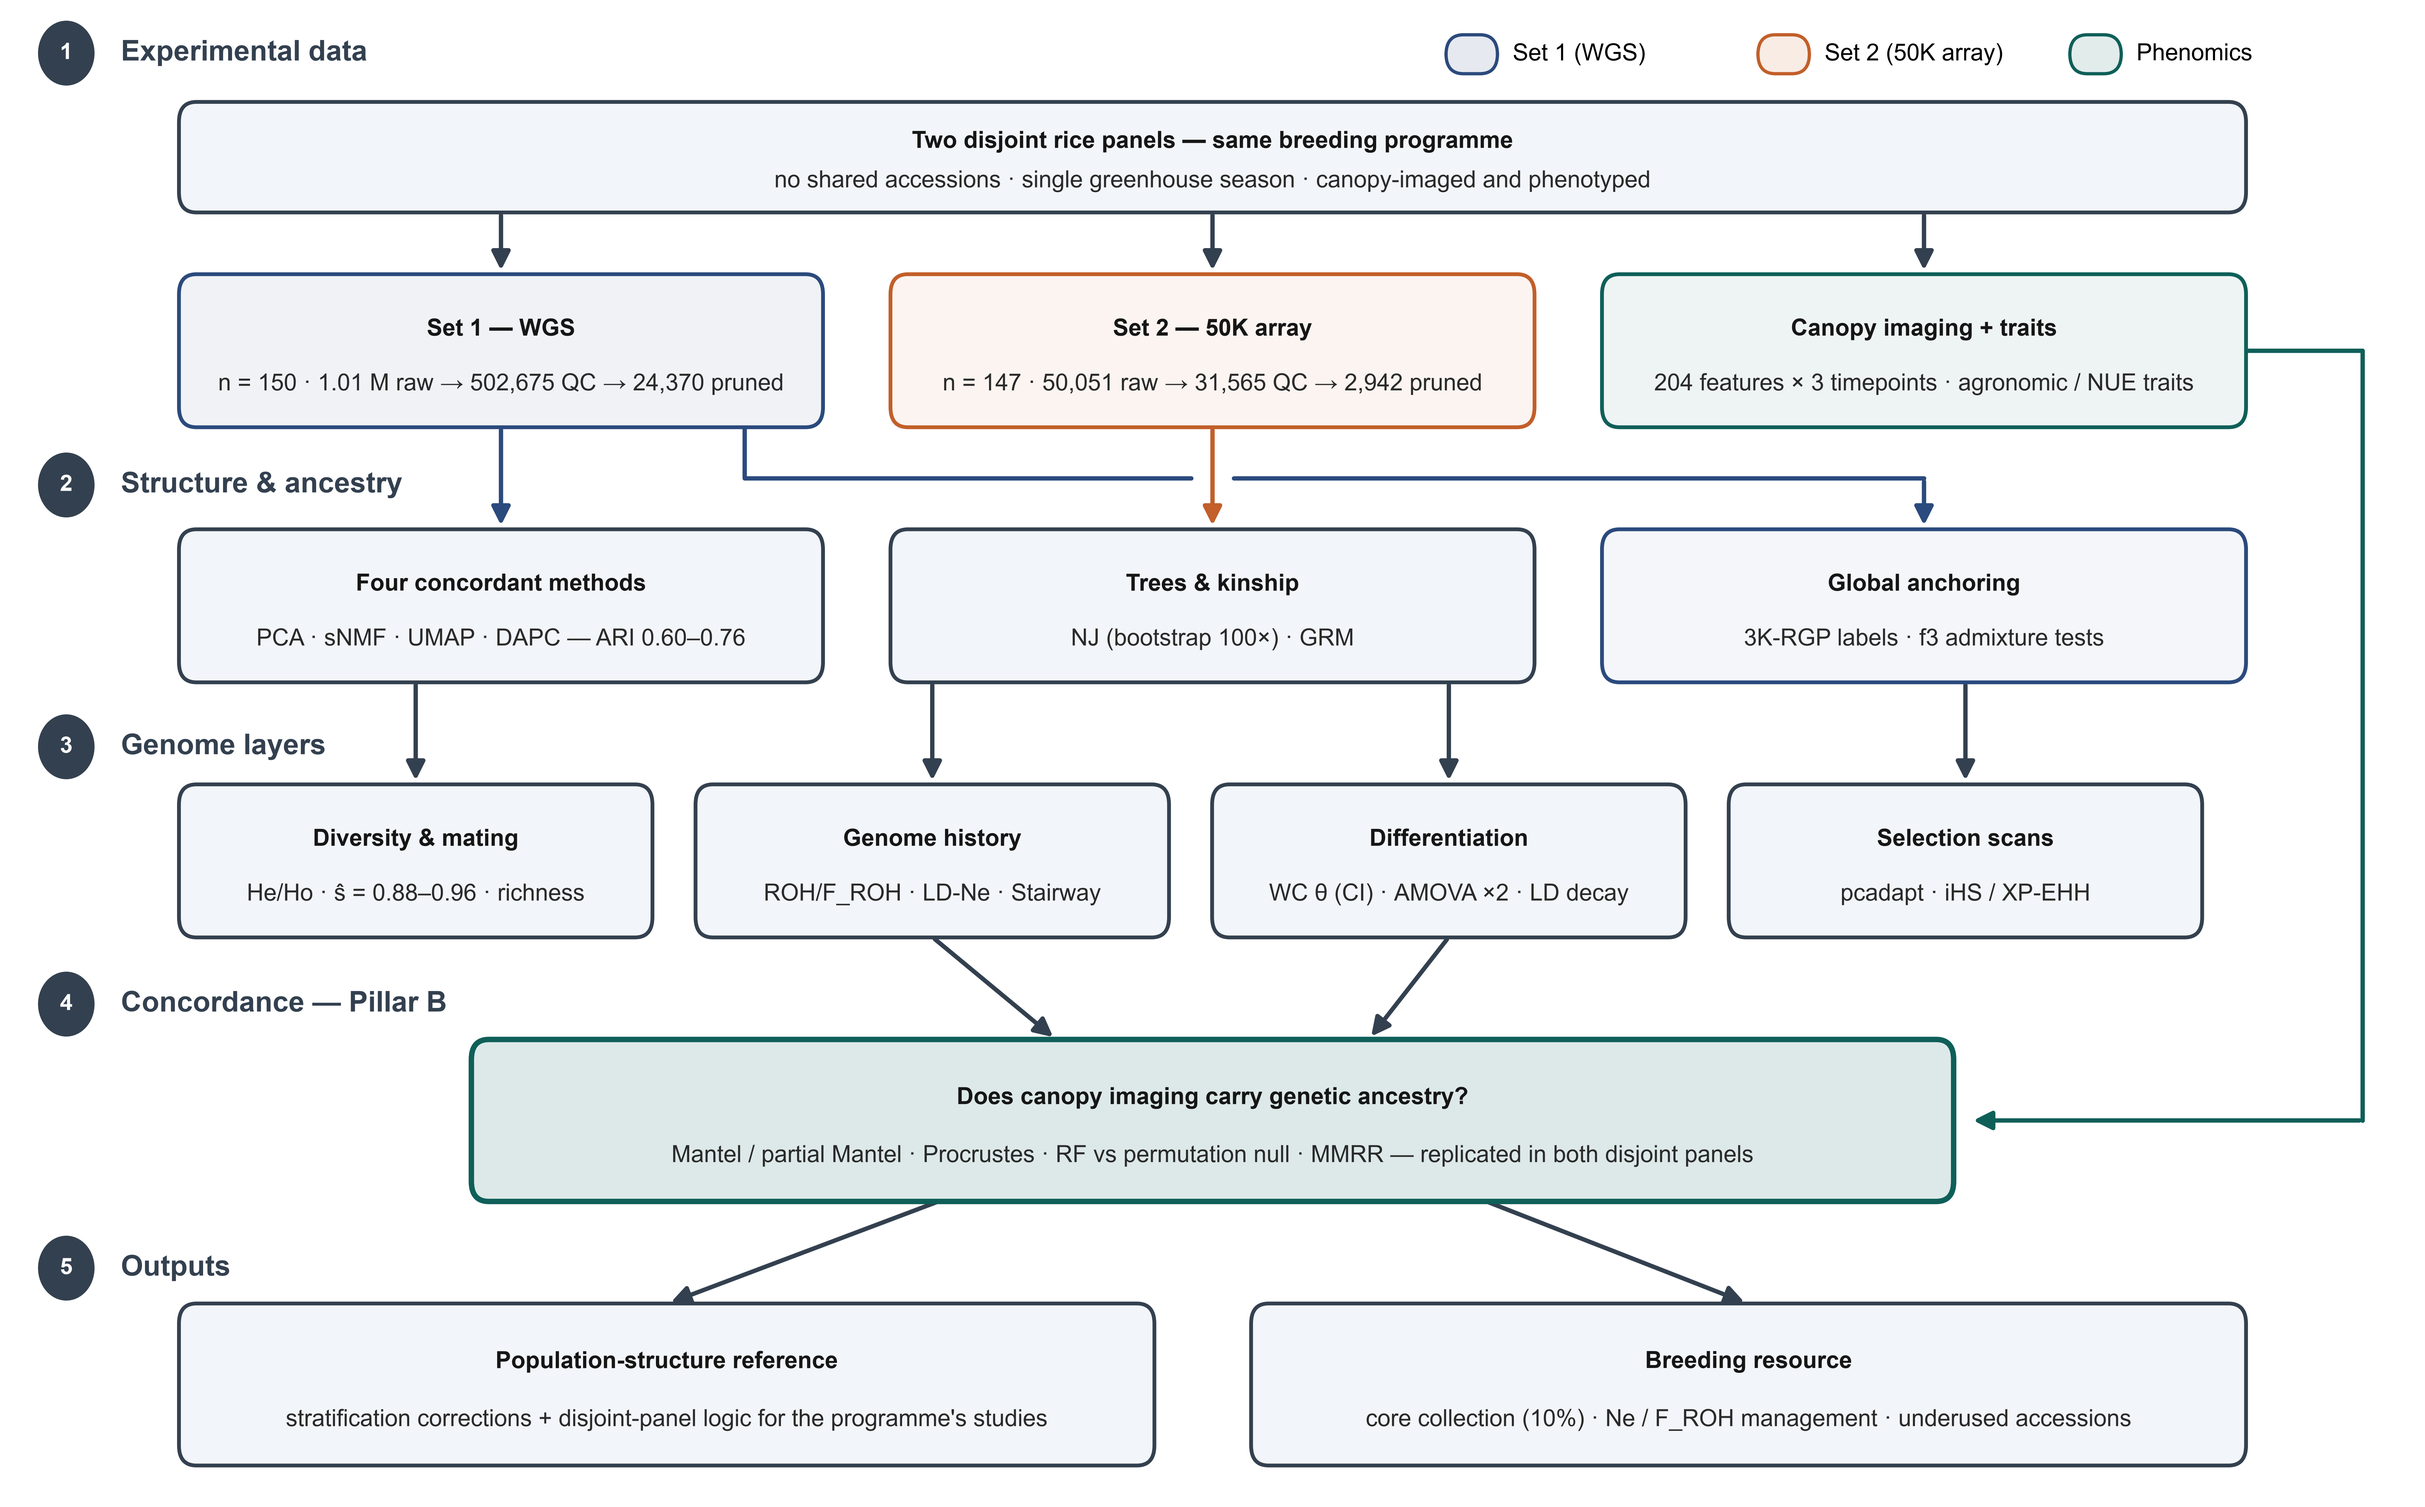
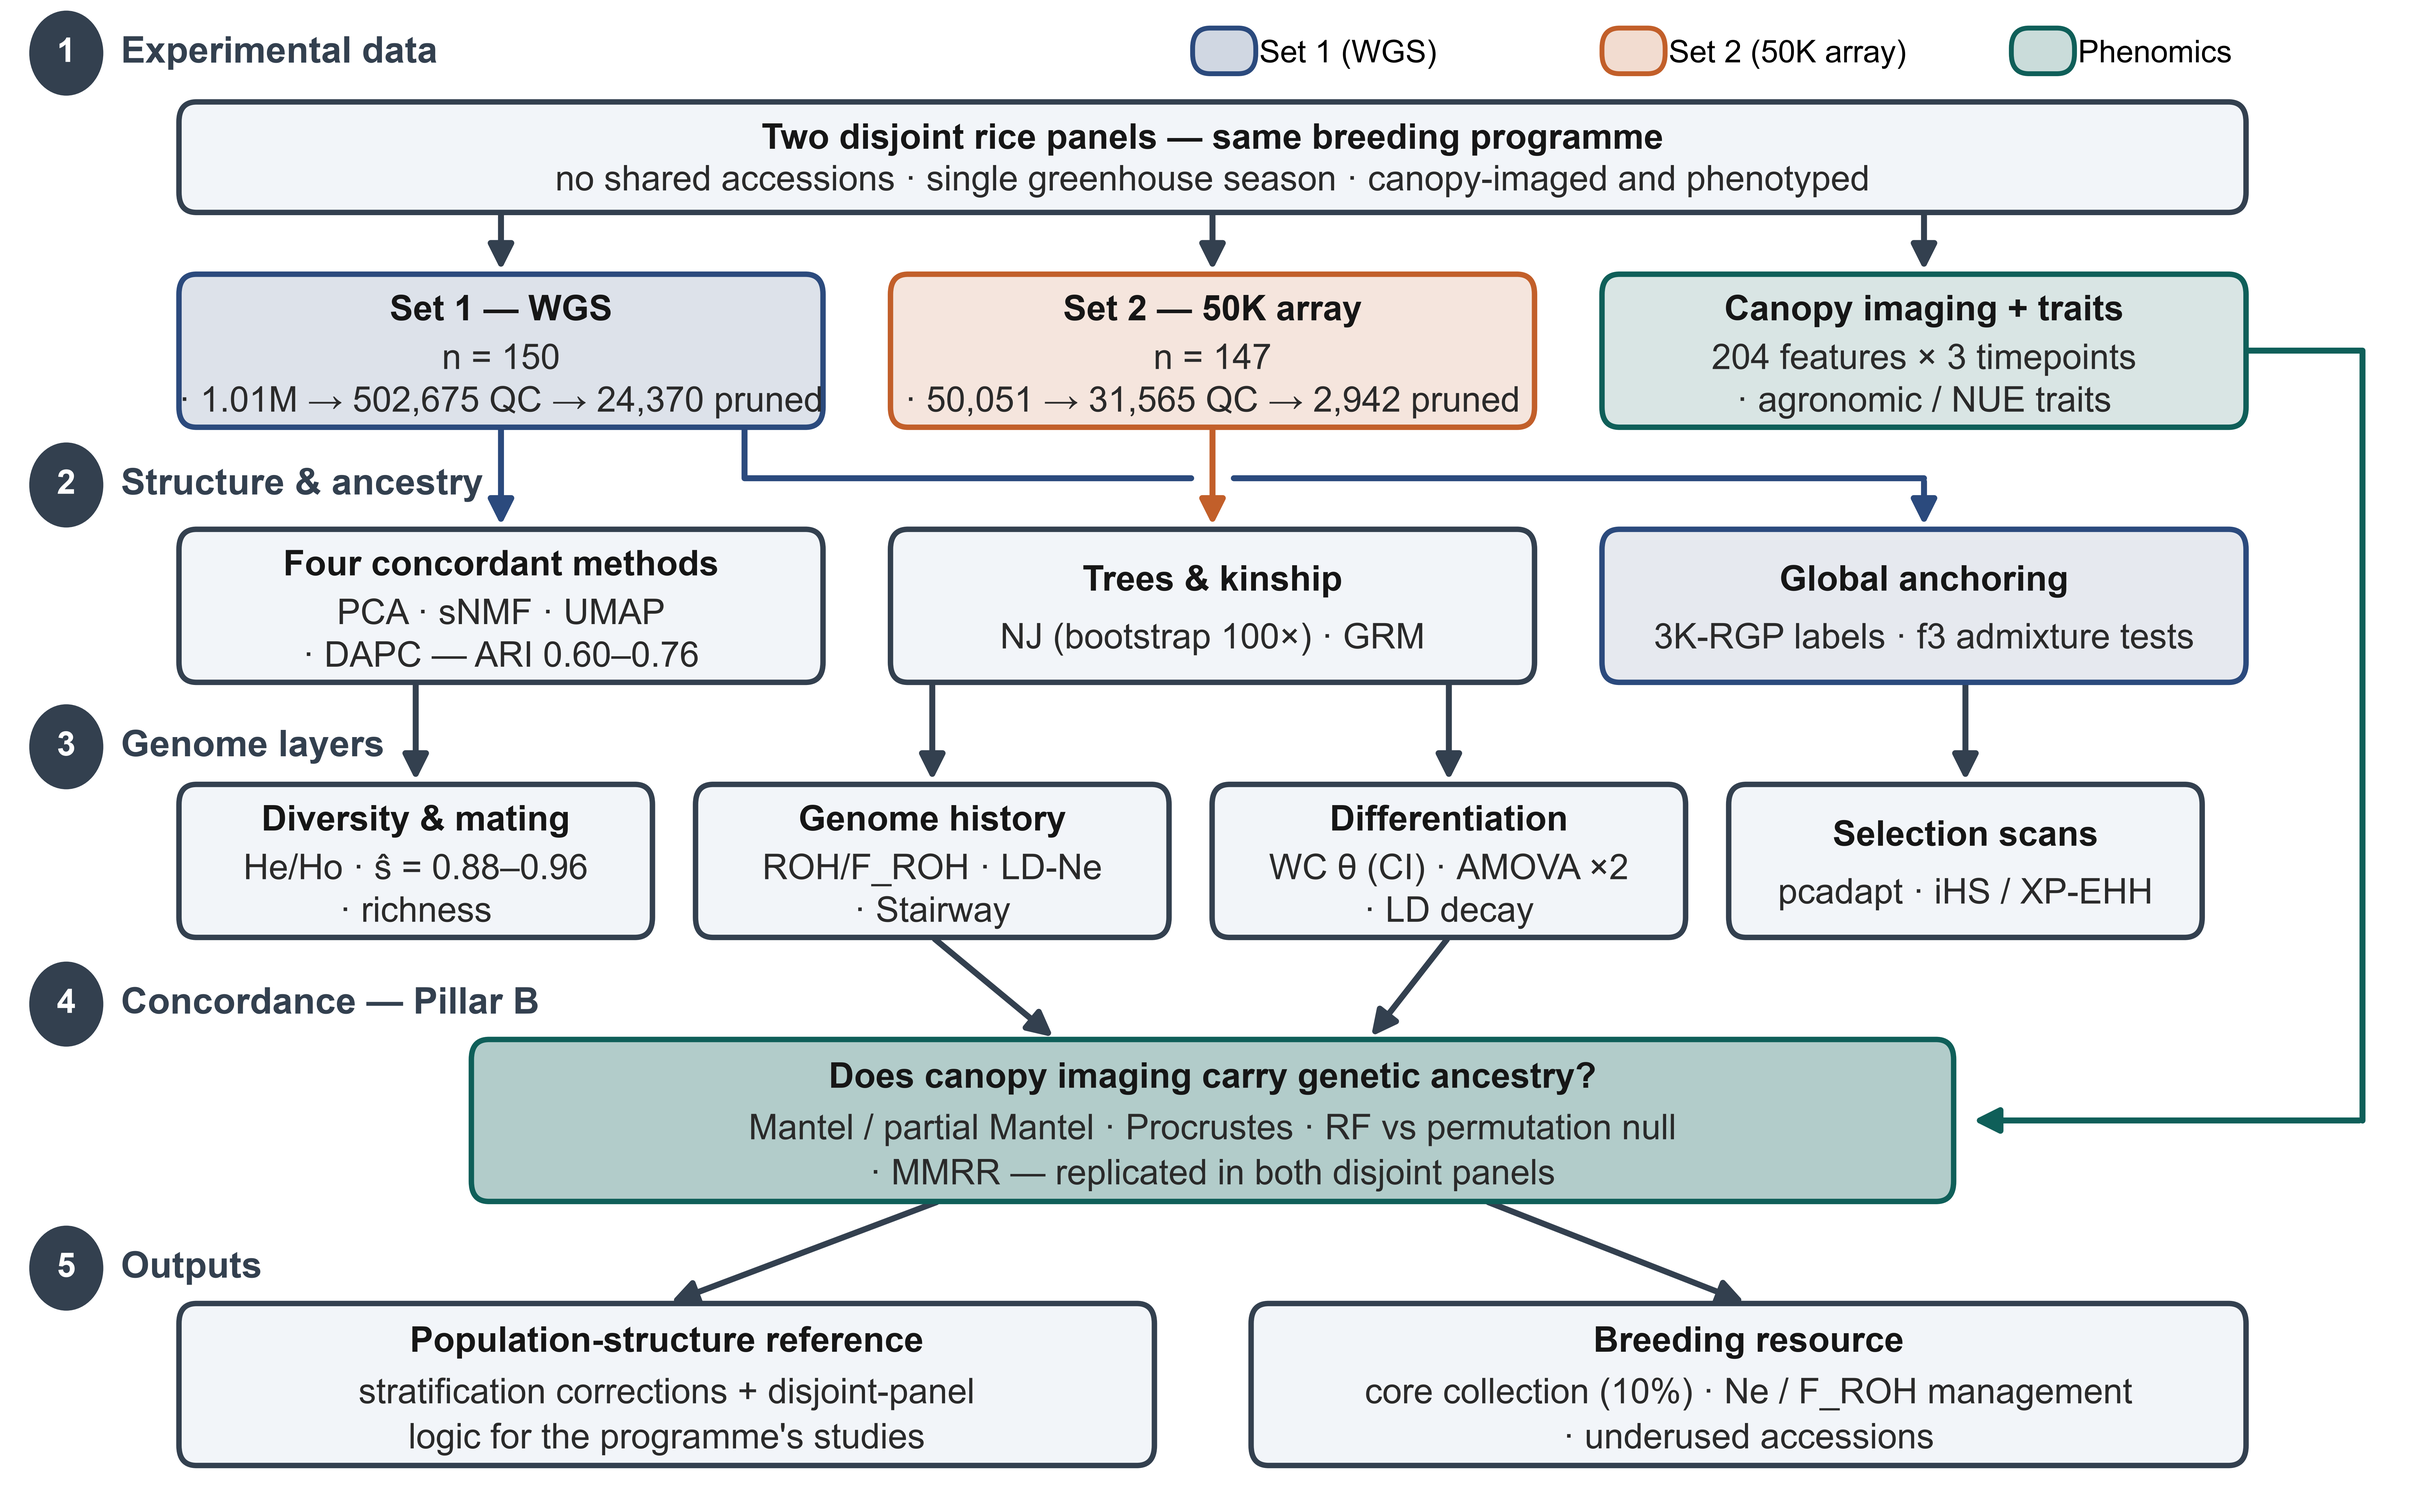
Readability upgrade for the design schematic and SVG figure exports

diff --git a/analysis/scripts/29_fig01_design.py b/analysis/scripts/29_fig01_design.py
@@ -27,7 +27,24 @@ import figstyle as fs
 fs.set_style()
 mpl.rcParams.update({"svg.fonttype": "none", "pdf.fonttype": 42})
 
-FS, FS_ST, FS_SUP, FS_LEG = 8.6, 10.5, 13.0, 8.6
+FS, FS_ST, FS_SUP, FS_LEG = 13.0, 13.5, 18.0, 11.5   # sized for half-page embedding (author feedback 2026-08-09)
+
+
+def _wrap2(text, limit=40):
+    """Split a detail line near its middle at ' · ' / '; ' / ', ' / ' ' so large fonts stay
+    inside the fixed-width boxes without dropping content."""
+    if len(text) <= limit:
+        return [text]
+    for sep in (" · ", "; ", ", ", " "):
+        positions = [i for i in range(len(text)) if text.startswith(sep, i)]
+        if positions:
+            cut = min(positions, key=lambda i: abs(i - len(text) // 2))
+            left = text[:cut].rstrip()
+            right = text[cut + len(sep):].lstrip()
+            if sep.strip() == "·" and not right.startswith("·"):
+                right = "· " + right
+            return [left, right]
+    return [text]
 S1C = fs.PANEL_COL["Set1"]          # WGS blue
 S2C = fs.PANEL_COL["Set2"]          # 50K orange
 PHC = "#0f5f59"                      # phenomics teal
@@ -41,7 +58,7 @@ C3C = [x + C3W / 2 for x in C3X]                  # 25.5, 62, 98.5
 C4C = [x + C4W / 2 for x in C4X]                  # 21.125, 47.625, 74.125, 100.625
 
 
-def tint(c, f=0.12):
+def tint(c, f=0.22):
     r, g, b = to_rgb(c)
     return (r * f + (1 - f), g * f + (1 - f), b * f + (1 - f))
 
@@ -52,26 +69,36 @@ ax.set_ylim(7.5, 74.5)
 ax.axis("off")
 
 
-def box(x, y, w, h, title, detail="", fc=NEUT, ec=EDGE, tc=INK, lw=1.4):
+def box(x, y, w, h, title, detail="", fc=NEUT, ec=EDGE, tc=INK, lw=2.0):
     ax.add_patch(FancyBboxPatch((x, y), w, h, boxstyle=BS, fc=fc, ec=ec, lw=lw, zorder=3))
+    limit = max(24, int(w * 1.15))
     if detail:
-        ax.text(x + w / 2, y + h * 0.64, title, ha="center", va="center",
-                fontsize=FS, fontweight="bold", color=tc, zorder=4)
-        ax.text(x + w / 2, y + h * 0.28, detail, ha="center", va="center",
-                fontsize=FS, color="#2A2A2A", zorder=4)
+        lines = _wrap2(detail, limit)
+        if len(lines) == 1:
+            ax.text(x + w / 2, y + h * 0.66, title, ha="center", va="center",
+                    fontsize=FS, fontweight="bold", color=tc, zorder=4)
+            ax.text(x + w / 2, y + h * 0.28, lines[0], ha="center", va="center",
+                    fontsize=FS, color="#2A2A2A", zorder=4)
+        else:
+            ax.text(x + w / 2, y + h * 0.76, title, ha="center", va="center",
+                    fontsize=FS, fontweight="bold", color=tc, zorder=4)
+            ax.text(x + w / 2, y + h * 0.44, lines[0], ha="center", va="center",
+                    fontsize=FS, color="#2A2A2A", zorder=4)
+            ax.text(x + w / 2, y + h * 0.16, lines[1], ha="center", va="center",
+                    fontsize=FS, color="#2A2A2A", zorder=4)
     else:
         ax.text(x + w / 2, y + h / 2, title, ha="center", va="center",
                 fontsize=FS, fontweight="bold", color=tc, zorder=4)
 
 
-def arrow(x1, y1, x2, y2, c=EDGE, lw=1.6, sb=1.6):
-    ax.add_patch(FancyArrowPatch((x1, y1), (x2, y2), arrowstyle="-|>", mutation_scale=14,
+def arrow(x1, y1, x2, y2, c=EDGE, lw=2.2, sb=1.6):
+    ax.add_patch(FancyArrowPatch((x1, y1), (x2, y2), arrowstyle="-|>", mutation_scale=19,
                                  lw=lw, color=c, zorder=2, shrinkA=1.2, shrinkB=sb))
 
 
 def stage(n, y, t, cx=3.2, tx=6.0):
-    ax.add_patch(Circle((cx, y), 1.45, fc=EDGE, ec="none", zorder=5))
-    ax.text(cx, y, str(n), ha="center", va="center", fontsize=8.4, color="white",
+    ax.add_patch(Circle((cx, y), 1.9, fc=EDGE, ec="none", zorder=5))
+    ax.text(cx, y, str(n), ha="center", va="center", fontsize=12.5, color="white",
             fontweight="bold", zorder=6)
     ax.text(tx, y, t, ha="left", va="center", fontsize=FS_ST, fontweight="bold",
             color=EDGE, zorder=5)
@@ -81,9 +108,9 @@ def stage(n, y, t, cx=3.2, tx=6.0):
 # QA pass 2026-08-08) ---------------------------------------------------------
 for i, (lab, c) in enumerate([("Set 1 (WGS)", S1C), ("Set 2 (50K array)", S2C),
                               ("Phenomics", PHC)]):
-    x0 = 74 + i * 16
-    ax.add_patch(FancyBboxPatch((x0, 71.4), 2.6, 1.7, boxstyle=BS, fc=tint(c), ec=c,
-                                lw=1.2, zorder=5))
+    x0 = 61 + i * 21
+    ax.add_patch(FancyBboxPatch((x0, 71.4), 3.2, 2.0, boxstyle=BS, fc=tint(c), ec=c,
+                                lw=1.8, zorder=5))
     ax.text(x0 + 3.4, 72.25, lab, ha="left", va="center", fontsize=FS_LEG, zorder=5)
 
 # ---- stage 1: panels --------------------------------------------------------
@@ -91,11 +118,11 @@ stage(1, 72.3, "Experimental data")
 box(9, 65.2, 106, 4.9, "Two disjoint rice panels — same breeding programme",
     "no shared accessions · single greenhouse season · canopy-imaged and phenotyped")
 box(C3X[0], 55.6, C3W, 6.8, "Set 1 — WGS",
-    "n = 150 · 1.01 M raw → 502,675 QC → 24,370 pruned", ec=S1C, fc=tint(S1C, 0.07))
+    "n = 150 · 1.01M → 502,675 QC → 24,370 pruned", ec=S1C, fc=tint(S1C, 0.16))
 box(C3X[1], 55.6, C3W, 6.8, "Set 2 — 50K array",
-    "n = 147 · 50,051 raw → 31,565 QC → 2,942 pruned", ec=S2C, fc=tint(S2C, 0.07))
+    "n = 147 · 50,051 → 31,565 QC → 2,942 pruned", ec=S2C, fc=tint(S2C, 0.16))
 box(C3X[2], 55.6, C3W, 6.8, "Canopy imaging + traits",
-    "204 features × 3 timepoints · agronomic / NUE traits", ec=PHC, fc=tint(PHC, 0.07))
+    "204 features × 3 timepoints · agronomic / NUE traits", ec=PHC, fc=tint(PHC, 0.16))
 for xc in C3C:
     arrow(xc, 65.2, xc, 62.4)
 
@@ -105,14 +132,14 @@ box(C3X[0], 44.2, C3W, 6.8, "Four concordant methods",
     "PCA · sNMF · UMAP · DAPC — ARI 0.60–0.76")
 box(C3X[1], 44.2, C3W, 6.8, "Trees & kinship", "NJ (bootstrap 100×) · GRM")
 box(C3X[2], 44.2, C3W, 6.8, "Global anchoring", "3K-RGP labels · f3 admixture tests",
-    ec=S1C, fc=tint(S1C, 0.05))
+    ec=S1C, fc=tint(S1C, 0.12))
 arrow(C3C[0], 55.6, C3C[0], 51.0, c=S1C)          # Set 1 -> structure (centre to centre)
 arrow(C3C[1], 55.6, C3C[1], 51.0, c=S2C)          # Set 2 -> trees/kinship
 # Set 1 -> global anchoring: elbow in the inter-row gap, hop where it crosses the Set2 arrow
 YB = 53.3
-ax.plot([38, 38, 60.9], [55.6, YB, YB], color=S1C, lw=1.6, zorder=2,
+ax.plot([38, 38, 60.9], [55.6, YB, YB], color=S1C, lw=2.2, zorder=2,
         solid_capstyle="round", solid_joinstyle="round")
-ax.plot([63.1, C3C[2]], [YB, YB], color=S1C, lw=1.6, zorder=2,
+ax.plot([63.1, C3C[2]], [YB, YB], color=S1C, lw=2.2, zorder=2,
         solid_capstyle="round", solid_joinstyle="round")
 arrow(C3C[2], YB, C3C[2], 51.0, c=S1C)
 
@@ -130,11 +157,11 @@ stage(4, 29.8, "Concordance — Pillar B")
 box(24, 21.0, 76, 7.2, "Does canopy imaging carry genetic ancestry?",
     "Mantel / partial Mantel · Procrustes · RF vs permutation null · MMRR — "
     "replicated in both disjoint panels",
-    ec=PHC, fc=tint(PHC, 0.14), lw=2.0)
+    ec=PHC, fc=tint(PHC, 0.32), lw=2.0)
 arrow(C4C[1], 32.8, 54, 28.2)                     # symmetric in-arrows about x = 62
 arrow(C4C[2], 32.8, 70, 28.2)
 # phenomics feeds Pillar B — routed along the right margin, clear of every box
-ax.plot([115, 121, 121], [59, 59, 24.6], color=PHC, lw=1.6, zorder=2,
+ax.plot([115, 121, 121], [59, 59, 24.6], color=PHC, lw=2.2, zorder=2,
         solid_capstyle="round", solid_joinstyle="round")
 arrow(121, 24.6, 100.8, 24.6, c=PHC)
 

diff --git a/analysis/scripts/figstyle.py b/analysis/scripts/figstyle.py
@@ -71,3 +71,6 @@ def save(fig, path):
     found clipping the top of several titles before this fix (Fig1/3/4/7, SuppFig1/2)."""
     fig.savefig(path, bbox_inches="tight")
     fig.savefig(path.rsplit(".", 1)[0] + ".pdf", bbox_inches="tight")
+    # SVG with real text elements (svg.fonttype = "none"): the editable-figure source for
+    # the journal figure booklets — Word can convert these to native editable shapes/text
+    fig.savefig(path.rsplit(".", 1)[0] + ".svg", bbox_inches="tight")
